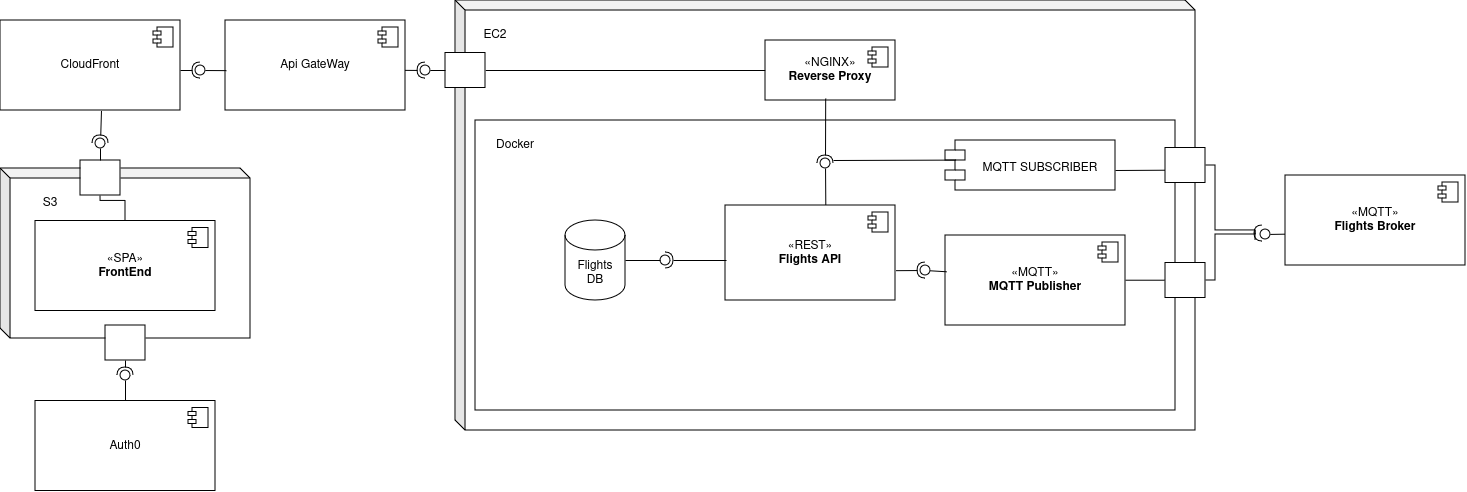
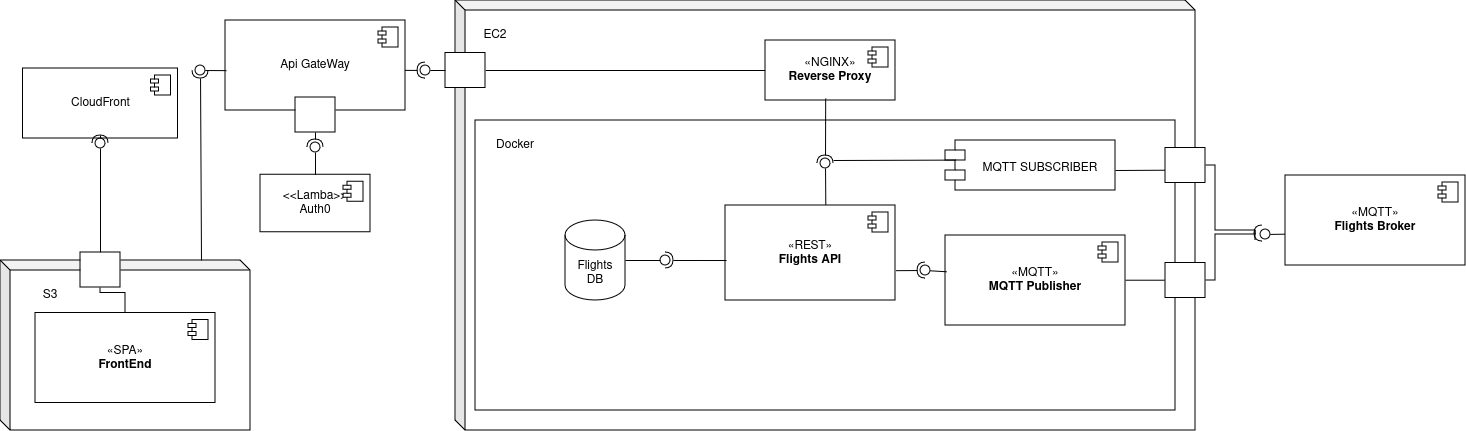
documentacion final y ci;

diff --git a/app/main.py b/app/main.py
@@ -18,7 +18,7 @@ app = FastAPI()
 
 app.add_middleware(
     CORSMiddleware,
-    allow_origins=["http://localhost:3000"],  # Replace with your frontend URL and port
+    allow_origins=["*"],  # Replace with your frontend URL and port
     allow_credentials=True,
     allow_methods=["GET", "POST", "PUT", "DELETE", "OPTIONS"],
     allow_headers=["*"],

diff --git a/docs/Documentacion.md b/docs/Documentacion.md
@@ -1,0 +1,76 @@
+# Diagrama UML
+
+El sistema permite manejar información relacionada con vuelos y pasajes, a través de una API. Para poder gestionar y transmitir los datos, se utilizan los servicios AWS, Docker y MQTT. 
+
+Particularmente, la API Gateway maneja las solicitudes, autenticadas mediante Lambda y Auth0. Dichas solicitudes son servidas por el S3 y distribuidas por el Cloudfront. Las solicitudes al API de vuelos son manejadas por Docker en EC2, con Ngnix. Los datos de estos vuelos se almacenen en la base de datos Flights DB, y se accede a ellos a travpes de la Flights API. Además, se utiliza MQTT para la comunicación en tiempo real. 
+
+## Componentes
+
+- Cloudfront.
+- API Gateway: es el punto de entrada para las solicitudes al backend, dirigiendo las solicitudes a los servicios, apoyándose en una función Lambda y conectándose con una instancia EC2.
+- Lambda (Auth0): gestiona la autentificación y autorización. 
+- S3: almacena el frontend de la aplicación.
+- EC2: ejecuta la API de vuelos, conteniendo al Docker.
+- Docker: contiene la aplicación del backend, incluyendo la base de datos (Flights DB) y la interfaz (Flights API).
+- Nginx: funciona como proxy inverso.
+- MQTT publisher and subscriber: maneja la publicación y suscripción a mensajes. 
+- Flights broker MQTT: broker que gestiona y coordina todos los mensajes. 
+
+
+# CI 
+
+El pipeline se activa en eventos de push y pull_request hacia la rama main. Esto permite asegurar que antes de fusionar nuevo código con la rama principal, se cumplan los estándares de calidad y las pruebas pasen correctamente. 
+
+El workflow contiene dos jobs principales: build y test. Ambos se ejecutan en máquinas virtuales de Ubunutu, en su última versión disponible. 
+
+- Build: el job se encarga de verificar la integridad del código al instalar dependencias y realizar un análisis estático usando EsLint. Primero, se utiliza la acción checkout para clonar el código del repositorio en el runner, luego se instalan las dependencias y de corre un Lint en el backend.
+- Test: el job asegura que todos los tests unitarios pasen. Al igual que en el caso anterior, primero se clona el repositorio usando un checkout code. Luego, se configura Python en el runner y se instalan las dependencias. Finalmente, se ejecutan los tests utilizando pytest. 
+
+# Documentación para configuración local
+s
+En primer lugar, se debe clonar el repositorio e instalar las dependencias. 
+
+Para el archivo .env se debe colocar:
+
+DB_USER=angegazitua
+DB_PASSWORD=cachaguA9.
+DB_HOST=db
+DB_PORT=5432
+DB_NAME=db_development_flights_e0
+
+Para el archivo .env en la carpeta publisher se deben colocar:
+
+HOST=broker.iic2173.org
+PORT=9000
+USER=students
+PASSWORD=iic2173-2024-1-students
+URL_API=http://localhost:8000/
+
+El dominio corresponde a angegazituae0.me.
+
+Para acceder al servidor, se deben seguir los siguientes pasos:
+
+Se debe ejecutar en el terminal donde está la carpeta donde se encuentra el archivo servidorarqui-angegazitua.pem:
+
+1. Abra un cliente SSH.
+2. Localice el archivo de clave privada. La clave utilizada para lanzar esta instancia es servidorarqui-angegazitua.pem
+3. Ejecute este comando, si es necesario, para garantizar que la clave no se pueda ver públicamente. chmod 400 "servidorarqui-angegazitua.pem"
+4. Conéctese a la instancia mediante su DNS público: ec2-18-221-235-186.us-east-2.compute.amazonaws.com
+
+Ejemplo:
+ssh -i "servidorarqui-angegazitua.pem" ubuntu@ec2-18-221-235-186.us-east-2.compute.amazonaws.com
+
+Usuario IAM:
+URL de inicio de sesión de la consola:
+
+https://851725438542.signin.aws.amazon.com/console
+Nombre de usuario: angegazituac
+Contraseña: 03gE6{-8
+En el link se ingresa el nombre de usuario y contraseña. Con cada inicio de sesión pide un cambio de contraseña.
+
+
+Para un correcto funcionamiento es importante despejar las puertos 8000, 8001, 8002 y 9000.
+
+Ejecutar la aplicación: `python3 uvicorn  app/main:app 0.0.0.0 :8000  `
+Ejecutar tests: `pytest`
+Levantar Docker: `docker-compose up --build -d `
